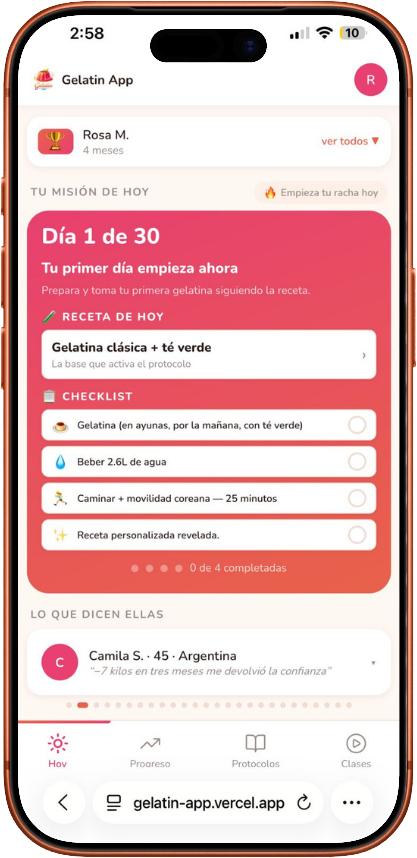
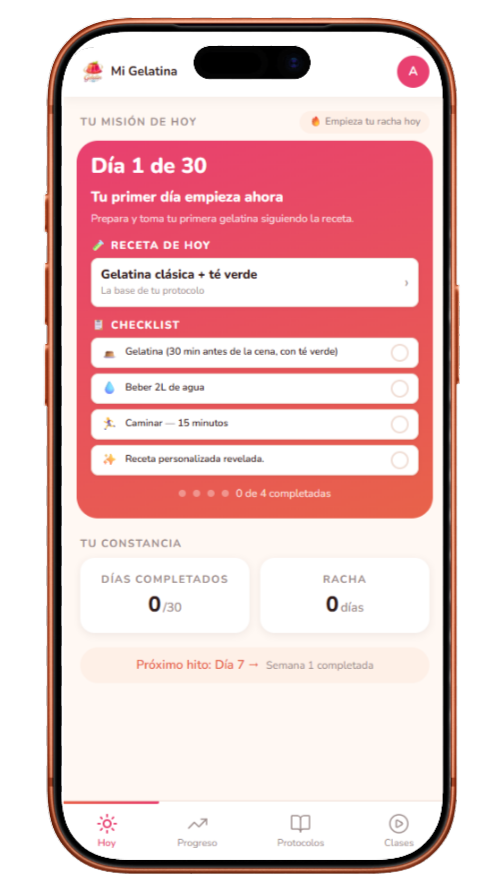
fix(sales): hero white Gelatin + gracias->jello-app

diff --git a/app/gracias/index.html b/app/gracias/index.html
@@ -130,7 +130,7 @@
     <h2>Accede a tu protocolo ahora</h2>
     <p>Todo está listo. Toca el botón de abajo para abrir tu protocolo y preparar tu primera receta de la gelatina hoy mismo.</p>
 
-    <a href="https://gelatin-app.vercel.app/login" class="cta">⚡ ABRIR MI PROTOCOLO</a>
+    <a href="https://jello-app.vercel.app/login" class="cta">⚡ ABRIR MI PROTOCOLO</a>
 
     <div class="guarantee">
       <svg class="g-ic" viewBox="0 0 44 44" fill="none">

diff --git a/app/index.html b/app/index.html
@@ -191,7 +191,7 @@
     <h1>Tu protocolo de 30 días, en una sola app.</h1>
     <div class="deck">Gelatin App reúne las recetas, los hábitos y las clases en un plan diario simple de seguir — paso a paso, sin complicaciones.</div>
     <div class="device-stage">
-      <img class="device-img" src="img/app-iphone-2.png" alt="Gelatin App en un iPhone: tu misión del día y la receta" width="417" height="858">
+      <img class="device-img" src="img/app-iphone-2.png" alt="Gelatin App en un iPhone: tu misión del día y la receta" width="501" height="891">
     </div>
     <a href="https://www.checkout-ds24.com/product/702951" class="cta">Obtener acceso — US$ 27</a>
     <div class="trust">

diff --git a/lotion/gracias/index.html b/lotion/gracias/index.html
@@ -130,7 +130,7 @@
     <h2>Accede a tu protocolo ahora</h2>
     <p>Todo está listo. Toca el botón de abajo para abrir tu protocolo y preparar tu primera primera receta hoy mismo.</p>
 
-    <a href="https://gelatin-app.vercel.app/login" class="cta">⚡ ABRIR MI PROTOCOLO</a>
+    <a href="https://jello-app.vercel.app/login" class="cta">⚡ ABRIR MI PROTOCOLO</a>
 
     <div class="guarantee">
       <svg class="g-ic" viewBox="0 0 44 44" fill="none">

diff --git a/menopause/gracias/index.html b/menopause/gracias/index.html
@@ -130,7 +130,7 @@
     <h2>Accede a tu protocolo ahora</h2>
     <p>Todo está listo. Toca el botón de abajo para abrir tu protocolo y preparar tu primera primera receta hoy mismo.</p>
 
-    <a href="https://gelatin-app.vercel.app/login" class="cta">⚡ ABRIR MI PROTOCOLO</a>
+    <a href="https://jello-app.vercel.app/login" class="cta">⚡ ABRIR MI PROTOCOLO</a>
 
     <div class="guarantee">
       <svg class="g-ic" viewBox="0 0 44 44" fill="none">